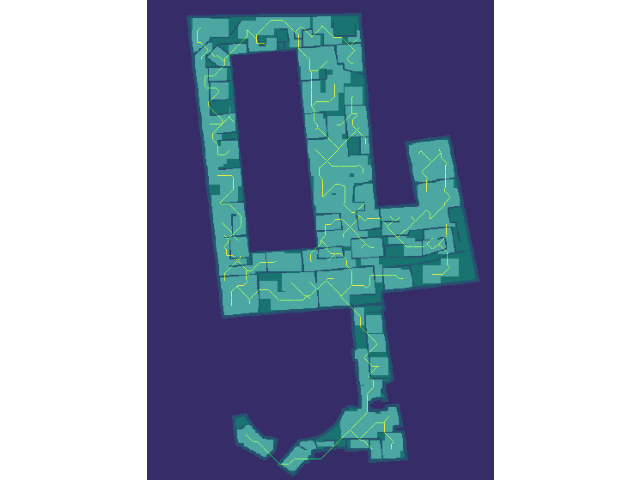
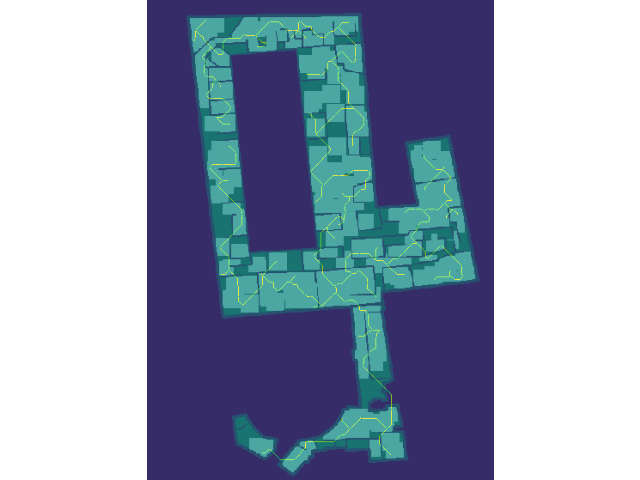
Fix SA

diff --git a/src/problem.py b/src/problem.py
@@ -180,13 +180,13 @@ class Problem:
         best_solution = self.solution
         best_score = current_score
 
-        T0 = 100
+        T0 = 10000
         t = T0
         iterations_per_temperature = 10
         neighbours = self.neighbours()
         currentIteration = 1
 
-        while t > 1:
+        while t > 10:
             temperatures.append(t)
             scores.append(current_score)
             print(f"Current temperature: {t}")
@@ -199,7 +199,7 @@ class Problem:
                     return best_solution
 
                 
-                neighbour.update_coverage
+                neighbour.update_coverage(args)
                 neighbour_score = neighbour.evaluate()
                 if neighbour_score != -1:
                     # delta = current_score - neighbour_score
@@ -224,7 +224,7 @@ class Problem:
                             neighbours = self.neighbours()
 
             # Taken from http://what-when-how.com/artificial-intelligence/a-comparison-of-cooling-schedules-for-simulated-annealing-artificial-intelligence/
-            t = T0 * 0.97 ** currentIteration                 # Exponential multiplicative cooling
+            t = T0 * 0.99 ** currentIteration                 # Exponential multiplicative cooling
             # t = T0 / (1 + 100 * math.log(1 + currentIteration))  # Logarithmical multiplicative cooling
             # t = T0 / (1 + 10 * currentIteration)             # Linear multiplicative cooling 
             # t = T0 / (1 + 0.1 * currentIteration ** 2)        # Quadratic multiplicative cooling

diff --git a/src/a.py b/src/a.py
@@ -1,0 +1,10 @@
+import matplotlib.pyplot as plt
+
+plt.ylabel('Score (s)')
+plt.xlabel('Algorithms')
+data = [21942000, 21547105, 21662045, 21785077]
+plt.ylim(bottom=20000000, top=22000000)
+labels = ['Simulated Annealing', 'Hillclimbing', 'Genetic(crossover 1)', 'Genetic(crossover 2)']
+
+plt.bar(labels, data)
+plt.show() 
